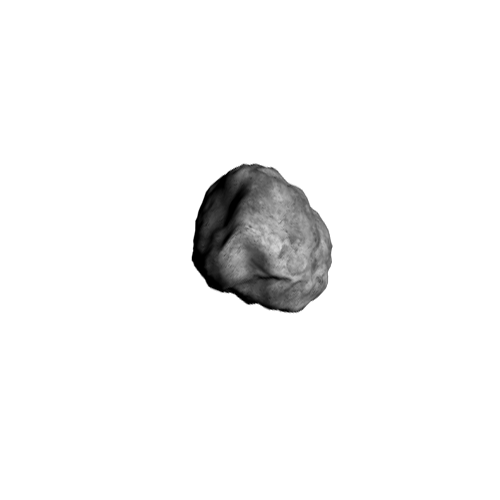
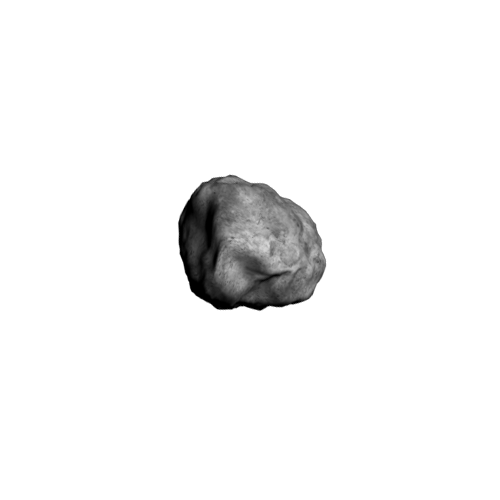
Добавлена анимация камней

Changed region(s): [[0.33, 0.33, 0.69, 0.63]]

diff --git a/src/main/java/com/plekhanov/game/ImageLoader.java b/src/main/java/com/plekhanov/game/ImageLoader.java
@@ -166,7 +166,14 @@ public class ImageLoader {
     private static BufferedImage stone1_pos6;
     private static BufferedImage stone1_pos7;
     private static BufferedImage stone1_pos8;
-
+    private static BufferedImage stone1_pos9;
+    private static BufferedImage stone1_pos10;
+    private static BufferedImage stone1_pos11;
+    private static BufferedImage stone1_pos12;
+    private static BufferedImage stone1_pos13;
+    private static BufferedImage stone1_pos14;
+    private static BufferedImage stone1_pos15;
+    private static BufferedImage stone1_pos16;
 
     //Player
     private static BufferedImage playerImage;
@@ -264,7 +271,6 @@ public class ImageLoader {
             mummyFireBallImage_15 = ImageIO.read(new File(PATH_TO_RESOURCE + "enemies" + FS + "fox_mummy" + FS + "mummy_fire_balls" + FS + "MummyFireBall_15.png"));
             mummyFireBallImage_16 = ImageIO.read(new File(PATH_TO_RESOURCE + "enemies" + FS + "fox_mummy" + FS + "mummy_fire_balls" + FS + "MummyFireBall_16.png"));
 
-
             // Enemy Ogre
             enemyOgreWalkImage_1 = ImageIO.read(new File(PATH_TO_RESOURCE + "enemies" + FS + "ogre" + FS + "walk" + FS + "ogre_walk_1.png"));
             enemyOgreWalkImage_2 = ImageIO.read(new File(PATH_TO_RESOURCE + "enemies" + FS + "ogre" + FS + "walk" + FS + "ogre_walk_2.png"));
@@ -361,7 +367,14 @@ public class ImageLoader {
             stone1_pos6 = ImageIO.read(new File(PATH_TO_RESOURCE + "enemies" + FS + "gargoly" + FS + "stones" + FS + "stone1" + FS + "stone1_pos6.png"));
             stone1_pos7 = ImageIO.read(new File(PATH_TO_RESOURCE + "enemies" + FS + "gargoly" + FS + "stones" + FS + "stone1" + FS + "stone1_pos7.png"));
             stone1_pos8 = ImageIO.read(new File(PATH_TO_RESOURCE + "enemies" + FS + "gargoly" + FS + "stones" + FS + "stone1" + FS + "stone1_pos8.png"));
-
+            stone1_pos9 = ImageIO.read(new File(PATH_TO_RESOURCE + "enemies" + FS + "gargoly" + FS + "stones" + FS + "stone1" + FS + "stone1_pos9.png"));
+            stone1_pos10 = ImageIO.read(new File(PATH_TO_RESOURCE + "enemies" + FS + "gargoly" + FS + "stones" + FS + "stone1" + FS + "stone1_pos10.png"));
+            stone1_pos11 = ImageIO.read(new File(PATH_TO_RESOURCE + "enemies" + FS + "gargoly" + FS + "stones" + FS + "stone1" + FS + "stone1_pos11.png"));
+            stone1_pos12 = ImageIO.read(new File(PATH_TO_RESOURCE + "enemies" + FS + "gargoly" + FS + "stones" + FS + "stone1" + FS + "stone1_pos12.png"));
+            stone1_pos13 = ImageIO.read(new File(PATH_TO_RESOURCE + "enemies" + FS + "gargoly" + FS + "stones" + FS + "stone1" + FS + "stone1_pos13.png"));
+            stone1_pos14 = ImageIO.read(new File(PATH_TO_RESOURCE + "enemies" + FS + "gargoly" + FS + "stones" + FS + "stone1" + FS + "stone1_pos14.png"));
+            stone1_pos15 = ImageIO.read(new File(PATH_TO_RESOURCE + "enemies" + FS + "gargoly" + FS + "stones" + FS + "stone1" + FS + "stone1_pos15.png"));
+            stone1_pos16 = ImageIO.read(new File(PATH_TO_RESOURCE + "enemies" + FS + "gargoly" + FS + "stones" + FS + "stone1" + FS + "stone1_pos16.png"));
 
             // Игрок
             playerImage = ImageIO.read(new File(PATH_TO_RESOURCE + "player" + FS + "Player.png"));
@@ -372,8 +385,6 @@ public class ImageLoader {
             playerMoveLeftWoundedImage = ImageIO.read(new File(PATH_TO_RESOURCE + "player" + FS + "PlayerMoveLeftWounded.png"));
             playerJumpImage = ImageIO.read(new File(PATH_TO_RESOURCE + "player" + FS + "PlayerJump.png"));
             playerJumpWoundedImage = ImageIO.read(new File(PATH_TO_RESOURCE + "player" + FS + "PlayerJumpWounded.png"));
-
-
             playerImageLookLeft = ImageIO.read(new File(PATH_TO_RESOURCE + "player" + FS + "lookLeft" + FS + "Player_LookLeft.png"));
             playerWoundedImageLookLeft = ImageIO.read(new File(PATH_TO_RESOURCE + "player" + FS + "lookLeft" +FS + "PlayerWounded_LookLeft.png"));
             playerMoveRightImageLookLeft = ImageIO.read(new File(PATH_TO_RESOURCE + "player" + FS + "lookLeft" +FS + "PlayerMoveRight_LookLeft.png"));
@@ -419,6 +430,38 @@ public class ImageLoader {
         } catch (IOException e) {
             e.printStackTrace();
         }
+    }
+
+    public static BufferedImage getStone1_pos9() {
+        return stone1_pos9;
+    }
+
+    public static BufferedImage getStone1_pos10() {
+        return stone1_pos10;
+    }
+
+    public static BufferedImage getStone1_pos11() {
+        return stone1_pos11;
+    }
+
+    public static BufferedImage getStone1_pos12() {
+        return stone1_pos12;
+    }
+
+    public static BufferedImage getStone1_pos13() {
+        return stone1_pos13;
+    }
+
+    public static BufferedImage getStone1_pos14() {
+        return stone1_pos14;
+    }
+
+    public static BufferedImage getStone1_pos15() {
+        return stone1_pos15;
+    }
+
+    public static BufferedImage getStone1_pos16() {
+        return stone1_pos16;
     }
 
     public static BufferedImage getStone1_pos1() {

diff --git a/src/main/java/com/plekhanov/game/gameObjects/enemies/Stone1.java b/src/main/java/com/plekhanov/game/gameObjects/enemies/Stone1.java
@@ -10,11 +10,17 @@ public class Stone1 extends Enemy {
     private static final int imageHeight = 200;
     private static final int renderOrder = 25;
 
+    private boolean rotateRight;
     private int rotateCount = 0;
     private int MAX_ROTATE_COUNT = 320;
 
     public Stone1(double x, double y, double speedX, double speedY, Model model) {
         super(x, y, speedX, speedY, ImageLoader.getStone1_pos1(), imageWidth, imageHeight, renderOrder, model);
+        if ( Math.random() > 0.4) {
+            rotateRight = true;
+        } else {
+            rotateRight = false;
+        }
     }
 
     @Override
@@ -26,22 +32,38 @@ public class Stone1 extends Enemy {
     }
 
     private void changeImage() {
-        if (rotateCount < 40) {
-            this.bufferedImage = ImageLoader.getStone1_pos1();
+        if (rotateCount < 20) {
+            this.bufferedImage = rotateRight ? ImageLoader.getStone1_pos1() : ImageLoader.getStone1_pos16();
+        } else if (rotateCount < 40) {
+            this.bufferedImage = rotateRight ? ImageLoader.getStone1_pos2() : ImageLoader.getStone1_pos15();
+        } else if (rotateCount < 60) {
+            this.bufferedImage = rotateRight ? ImageLoader.getStone1_pos3() : ImageLoader.getStone1_pos14();
         } else if (rotateCount < 80) {
-            this.bufferedImage = ImageLoader.getStone1_pos2();
+            this.bufferedImage = rotateRight ? ImageLoader.getStone1_pos4() : ImageLoader.getStone1_pos13();
+        } else if (rotateCount < 100) {
+            this.bufferedImage = rotateRight ? ImageLoader.getStone1_pos5() : ImageLoader.getStone1_pos12();
         } else if (rotateCount < 120) {
-            this.bufferedImage = ImageLoader.getStone1_pos3();
+            this.bufferedImage = rotateRight ? ImageLoader.getStone1_pos6() : ImageLoader.getStone1_pos11();
+        } else if (rotateCount < 140) {
+            this.bufferedImage = rotateRight ? ImageLoader.getStone1_pos7() : ImageLoader.getStone1_pos10();
         } else if (rotateCount < 160) {
-            this.bufferedImage = ImageLoader.getStone1_pos4();
+            this.bufferedImage = rotateRight ? ImageLoader.getStone1_pos8() : ImageLoader.getStone1_pos9();
+        } else if (rotateCount < 180) {
+            this.bufferedImage = rotateRight ? ImageLoader.getStone1_pos9() : ImageLoader.getStone1_pos8();
         } else if (rotateCount < 200) {
-            this.bufferedImage = ImageLoader.getStone1_pos5();
+            this.bufferedImage = rotateRight ? ImageLoader.getStone1_pos10() : ImageLoader.getStone1_pos7();
+        } else if (rotateCount < 220) {
+            this.bufferedImage = rotateRight ? ImageLoader.getStone1_pos11() : ImageLoader.getStone1_pos6();
         } else if (rotateCount < 240) {
-            this.bufferedImage = ImageLoader.getStone1_pos6();
+            this.bufferedImage = rotateRight ? ImageLoader.getStone1_pos12() : ImageLoader.getStone1_pos5();
+        } else if (rotateCount < 260) {
+            this.bufferedImage = rotateRight ? ImageLoader.getStone1_pos13() : ImageLoader.getStone1_pos4();
         } else if (rotateCount < 280) {
-            this.bufferedImage = ImageLoader.getStone1_pos7();
+            this.bufferedImage = rotateRight ? ImageLoader.getStone1_pos14() : ImageLoader.getStone1_pos3();
+        } else if (rotateCount < 300) {
+            this.bufferedImage = rotateRight ? ImageLoader.getStone1_pos15() : ImageLoader.getStone1_pos2();
         } else if (rotateCount < 320) {
-            this.bufferedImage = ImageLoader.getStone1_pos8();
+            this.bufferedImage = rotateRight ? ImageLoader.getStone1_pos16() : ImageLoader.getStone1_pos1();
         }
     }
 

diff --git a/src/main/java/com/plekhanov/game/gameLevels/Level_3.java b/src/main/java/com/plekhanov/game/gameLevels/Level_3.java
@@ -22,10 +22,10 @@ public class Level_3 {
 
         int y = -0; // смещение фона вверх
         int imageHeight = 0;  // растягивание фона
+
         //статический фон
         gameObjects.add(new BackGround(width / 2, height / 2 - y, 0, 0, ImageLoader.getBackgroundLevel3Image1(), width + imageHeight, height + imageHeight, 1));  //background1
         gameObjects.add(new BackGround(width / 2, height / 2 - y, 0, 0, ImageLoader.getBackgroundLevel3Image2(), width, height + imageHeight, 2));  //background2
-
 
         //динамический фон
         gameObjects.add(new BackGround(width / 2, height / 2 - y, -0.1, 0, ImageLoader.getBackgroundLevel3Image3(), width, height + imageHeight, 4));  //background3
@@ -34,7 +34,6 @@ public class Level_3 {
         gameObjects.add(new BackGround(width / 2 + width, height / 2 - y, -0.2, 0, ImageLoader.getBackgroundLevel3Image4(), width, height + imageHeight, 4));  //background4
         gameObjects.add(new BackGround(width / 2, height / 2 - y, -0.2, 0, ImageLoader.getBackgroundLevel3Image5(), width, height + imageHeight, 5));  //background5
         gameObjects.add(new BackGround(width / 2 + width, height / 2 - y, -0.2, 0, ImageLoader.getBackgroundLevel3Image5(), width, height + imageHeight, 5));  //background5
-
 
         gameObjects.add(new BackGround(width / 2, height / 2 - y, -0.3, 0, ImageLoader.getBackgroundLevel3Image6(), width, height + imageHeight, 6));  //background6
         gameObjects.add(new BackGround(width / 2 + width, height / 2 - y, -0.3, 0, ImageLoader.getBackgroundLevel3Image6(), width, height + imageHeight, 6));  //background6

diff --git a/src/main/java/com/plekhanov/game/gameLevels/Level_2.java b/src/main/java/com/plekhanov/game/gameLevels/Level_2.java
@@ -20,10 +20,10 @@ public class Level_2 {
 
         int y = -0; // смещение фона вверх
         int imageHeight = 0;  // растягивание фона
+
         //статический фон
         gameObjects.add(new BackGround(width / 2, height / 2 - y, 0, 0, ImageLoader.getBackgroundLevel2Image1(), width + imageHeight, height + imageHeight, 1));  //background1
         gameObjects.add(new BackGround(width / 2, height / 2 - y, 0, 0, ImageLoader.getBackgroundLevel2Image2(), width, height + imageHeight, 2));  //background2
-
 
         //динамический фон
         gameObjects.add(new BackGround(width / 2, height / 2 - y, -0.2, 0, ImageLoader.getBackgroundLevel2Image3(), width, height + imageHeight, 4));  //background4

diff --git a/src/main/java/com/plekhanov/game/gameLevels/Level_1.java b/src/main/java/com/plekhanov/game/gameLevels/Level_1.java
@@ -20,6 +20,7 @@ public class Level_1 {
 
         int y = 225; // смещение фона вверх
         int imageHeight = 500;  // растягивание фона
+
         //статический фон
         gameObjects.add(new BackGround(width / 2, height / 2 - y, 0, 0, ImageLoader.getBackgroundImage1(), width, height + imageHeight, 1));  //background1
         gameObjects.add(new BackGround(width / 2, height / 2 - y, 0, 0, ImageLoader.getBackgroundImage2(), width, height + imageHeight, 2));  //background2
